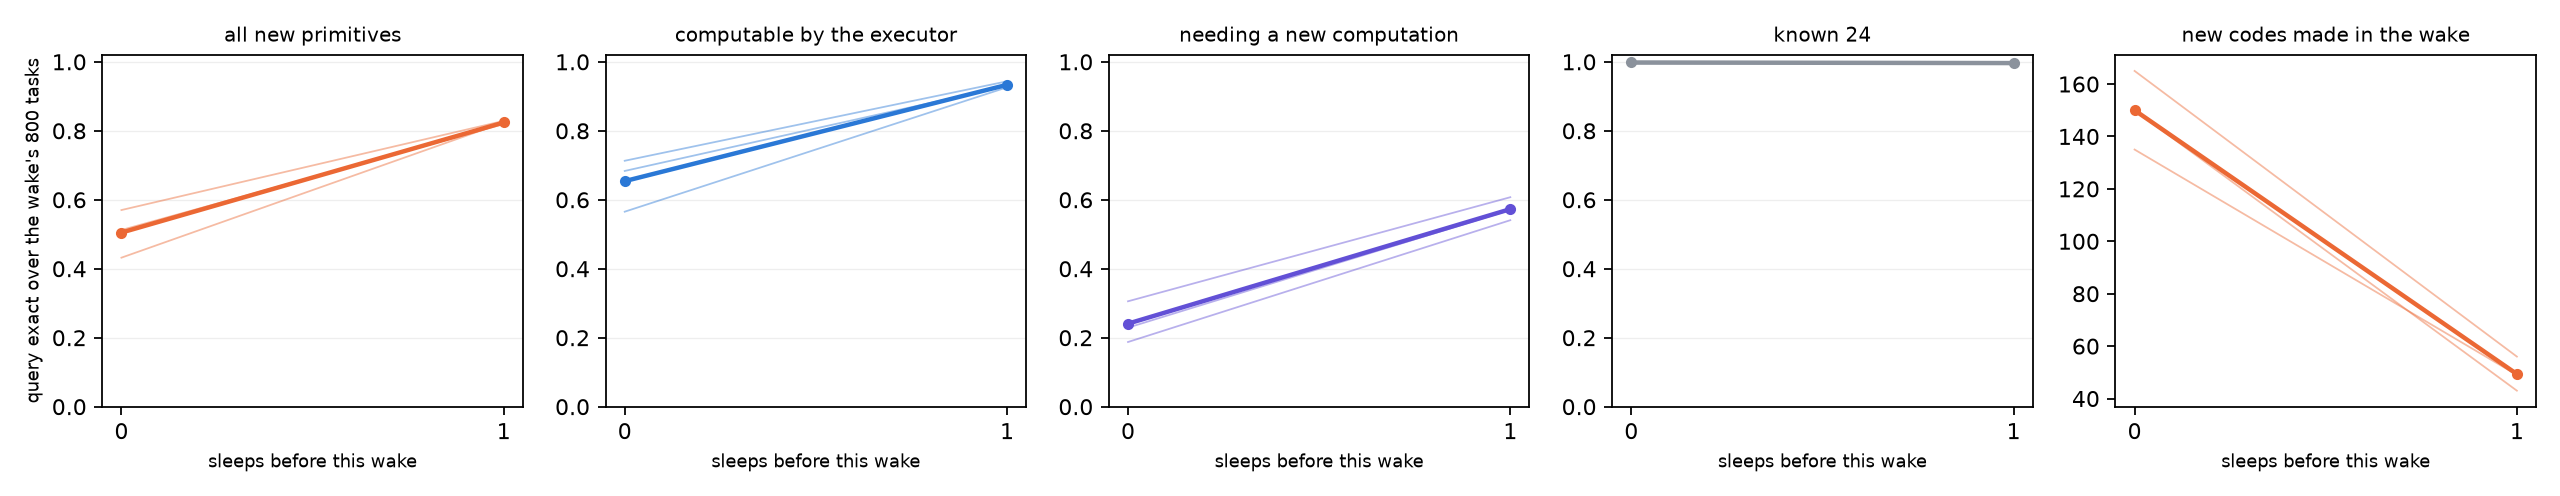
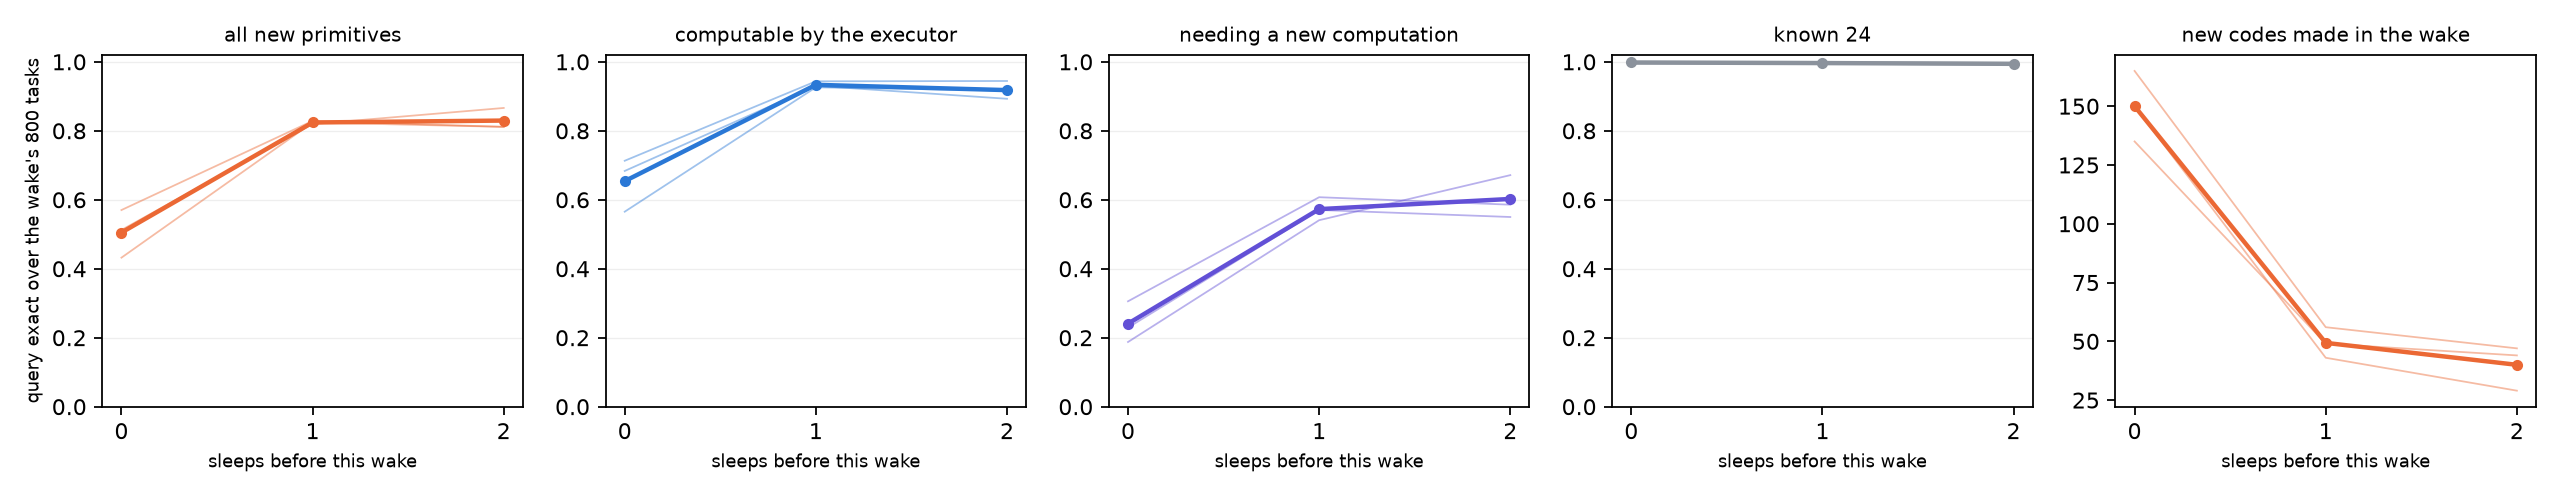
Three-seed rounds: the first sleep's gain holds at every seed, later gains do not; dream replay tool and configs

diff --git a/scripts/babytheorist/memory_dream_replay.py b/scripts/babytheorist/memory_dream_replay.py
@@ -1,0 +1,76 @@
+#!/usr/bin/env python3
+"""A replay file for the sleep made by the model itself, in place of the old world's train file.
+
+The frozen model dreams: for each row a code of its own codebook is drawn uniformly, two grids are drawn from the grids it
+saw while awake (the inputs and outputs of the stream's tasks, saved by memory_online.py --save-memory), and the executor
+runs the code on both. The two (grid, result) pairs are one two-pair task of the replay file. Training on it asks the
+sleeping model to keep doing with each code what it did before the sleep, on the states of the new world; no stored data
+of the old world and no label is used. Every code is dreamt, used or not.
+
+    python scripts/babytheorist/memory_dream_replay.py --run runs/onestep_s_m24_hardem_pairs2_price_s43 \
+        --memory runs/queue/memory_online_refit.pt --out data/babytheorist/dream_replay_s43/lv1_train.h5 --rows 40000
+"""
+
+from __future__ import annotations
+
+import argparse
+import json
+import sys
+from pathlib import Path
+
+import h5py
+import numpy as np
+import torch
+
+REPO = Path(__file__).resolve().parents[2]
+sys.path.insert(0, str(REPO / "src"))
+sys.path.insert(0, str(REPO / "scripts" / "babytheorist"))
+
+from support_search import code_table  # noqa: E402
+from training.evaluate import load_run  # noqa: E402
+
+
+@torch.no_grad()
+def main() -> None:
+    parser = argparse.ArgumentParser(description=__doc__, formatter_class=argparse.RawDescriptionHelpFormatter)
+    parser.add_argument("--run", type=Path, required=True)
+    parser.add_argument("--memory", type=Path, required=True)
+    parser.add_argument("--rows", type=int, default=40000)
+    parser.add_argument("--seed", type=int, default=0)
+    parser.add_argument("--out", type=Path, required=True)
+    args = parser.parse_args()
+    device = torch.device("cuda" if torch.cuda.is_available() else "cpu")
+    model, _, _, _ = load_run(args.run, None, device)
+    model.eval()
+    table = code_table(model)
+    saved = torch.load(args.memory, map_location="cpu", weights_only=False)
+    with h5py.File(saved["eval"], "r") as f:
+        rows = sorted(saved["rows"])
+        seen = np.concatenate([f["inputs"][:][rows], f["outputs"][:][rows]]).reshape(-1, *f["inputs"].shape[2:])
+        grid_size = f["grid_sizes"][0]
+    rng = np.random.default_rng(args.seed)
+    codes = rng.integers(0, table.shape[0], size=args.rows)
+    picks = rng.integers(0, len(seen), size=(args.rows, 2))
+    inputs = seen[picks]                                           # rows, 2, H, W
+    outputs = np.zeros_like(inputs)
+    for start in range(0, args.rows, 1024):
+        x = torch.tensor(inputs[start: start + 1024], dtype=torch.long, device=device)
+        c = table[torch.tensor(codes[start: start + 1024], device=device)]
+        state = model.encoder(x.flatten(0, 1))
+        out = model.decoder(model.executor(state, c.repeat_interleave(2, dim=0)[:, None])).argmax(dim=-1)
+        outputs[start: start + 1024] = out.view(-1, 2, *out.shape[1:]).cpu().numpy().astype(outputs.dtype)
+    changed = float((outputs != inputs).reshape(args.rows, -1).any(axis=1).mean())
+    args.out.parent.mkdir(parents=True, exist_ok=True)
+    with h5py.File(args.out, "w") as out:
+        out["inputs"], out["outputs"] = inputs.astype(np.int8), outputs.astype(np.int8)
+        out["depths"] = np.ones(args.rows, dtype=np.int32)
+        out["grid_sizes"] = np.tile(np.asarray(grid_size, dtype=np.int32), (args.rows, 1))
+        out["n_shapes"] = np.ones((args.rows, 2), dtype=np.int32)
+        out["n_support"] = np.ones(args.rows, dtype=np.int32)
+        suites = [json.dumps([{"selector": {"type": "by_index", "param": 1}, "primitive": f"dream_code_{int(c)}", "target": None}]) for c in codes]
+        out.create_dataset("transformation_suites", data=suites, dtype=h5py.string_dtype())
+    print(f"{args.rows} dreamt tasks from {len(seen)} seen grids and {table.shape[0]} codes; {changed:.2f} of them change a grid: {args.out}")
+
+
+if __name__ == "__main__":
+    main()

diff --git a/scripts/babytheorist/make_configs.py b/scripts/babytheorist/make_configs.py
@@ -937,6 +937,21 @@ def main() -> None:
             config["evals"].append({"type": "codebook_snapshot", "name": "snapshot", "every": 200, "split": "lv1", "max_tasks": 1024, "max_samples": 4000})
             config["evals"].append({"type": "codebook_snapshot", "name": "snapshot_usual", "every": 500, "split": "usual", "max_tasks": 1024, "max_samples": 4000})
             configs[f"{tag}_memory_m24_to_m52_s{seed}"] = config
+    # what the sleep replays (2026-11-27 21:00): sleep_memory_m24_to_m52_s43 keeps the old world by replaying its train file,
+    # which assumes the old data is kept. Two more sleeps from the same start on the same memory: no replay at all (how much
+    # is forgotten), and a replay the model dreams itself (scripts/babytheorist/memory_dream_replay.py: each of its codes
+    # run on grids it saw while awake), with no old data.
+    for tag, replay in (("norep", []), ("dream", [f"{DATA}/dream_replay_s43/lv1_train.h5"])):
+        config = one_step(43, steps=2000, codes=104, changes={**hard_em, "train.init_from": "runs/grow_init/m24_price_s43_to_m52_sleep_memory.pt"},
+                          data=suite("many_p52_without4"))
+        config["data"]["type"] = "babytheorist_episodes"
+        config["data"]["train"] = [f"{DATA}/memory_refit_s43_rep/lv1_train.h5"] + replay
+        config["data"]["evals"] = {"lv1": f"{DATA}/many_p52_without4_unstreamed/lv1_eval.h5", "usual": f"{DATA}/many_p24/lv1_eval.h5"}
+        config["evals"][0]["tables"] = True
+        config["evals"][0]["every"] = 500
+        config["evals"].append({"type": "codebook_snapshot", "name": "snapshot", "every": 200, "split": "lv1", "max_tasks": 1024, "max_samples": 4000})
+        config["evals"].append({"type": "codebook_snapshot", "name": "snapshot_usual", "every": 500, "split": "usual", "max_tasks": 1024, "max_samples": 4000})
+        configs[f"sleep_{tag}_m24_to_m52_s43"] = config
     # the control for what the fast memory chose (2026-11-27 17:15): the same sleep from fresh rows on 435 tasks drawn at
     # random from the 52-primitive two-pair train file (seed 0, repeated to 40,000 rows), instead of the 435 tasks the
     # memory kept because no code of the frozen model reproduced them.

diff --git a/docs/reports/2026-11-27-autoresearch.md b/docs/reports/2026-11-27-autoresearch.md
@@ -10,7 +10,7 @@
 
 결과를 먼저 말하면, 첫 질문은 절반쯤 풀렸다. 학습 초반에 과하게 쓰인 code에 가격을 붙여 과제를 여러 code로 퍼뜨리고 나중에 가격을 거두면, 굳던 seed 43과 44가 갈라졌고 52개 환경에서는 세 seed가 모두 풀렸다. 하지만 24개 환경의 seed 45와 46에서는 오히려 덜 갈라졌다. 가격을 재현 적합도로 거두는 형태가 이 두 seed를 올렸지만 아직 다 풀지는 못했다.
 
-둘째 질문에서 더 많은 것이 나왔다. 세 가지다. 학습 때 보는 state를 넓히면 executor가 학습 분포 밖에서도 같은 변환을 실행하게 되고, 긴 program과 큰 물체 세계로의 전이가 함께 오른다. 24개 환경 모델을 52개 환경으로 키우면 초반은 빠르지만 끝 성능과 처음 보는 primitive로의 일반화는 처음부터 배운 쪽이 낫다. 그리고 이날의 중심 결과로, 얼린 모델에 빠른 기억을 붙이고 잠을 번갈아 넣으면 새 과제가 바퀴마다 더 싸게 풀린다. 깨어 있는 동안에는 가중치를 바꾸지 않고 새 code를 기억에 만들어 쓰고, 자기 code로 풀리지 않은 과제를 모은다. 잠에서 그 과제로 가중치를 고친다. 새 primitive 과제의 정답률이 자기 전 51%, 한 번 잔 뒤 79%, 두 번 잔 뒤 86%이고, 깨어 있는 동안 새로 만들어야 하는 code는 150개, 43개, 25개로 준다. 원래 알던 것은 내내 99% 이상이다.
+둘째 질문에서 더 많은 것이 나왔다. 세 가지다. 학습 때 보는 state를 넓히면 executor가 학습 분포 밖에서도 같은 변환을 실행하게 되고, 긴 program과 큰 물체 세계로의 전이가 함께 오른다. 24개 환경 모델을 52개 환경으로 키우면 초반은 빠르지만 끝 성능과 처음 보는 primitive로의 일반화는 처음부터 배운 쪽이 낫다. 그리고 이날의 중심 결과로, 얼린 모델에 빠른 기억을 붙이고 잠을 번갈아 넣으면 새 과제가 바퀴마다 더 싸게 풀린다. 깨어 있는 동안에는 가중치를 바꾸지 않고 새 code를 기억에 만들어 쓰고, 자기 code로 풀리지 않은 과제를 모은다. 잠에서 그 과제로 가중치를 고친다. 세 seed 평균으로 새 primitive 과제의 정답률이 자기 전 50%, 한 번 잔 뒤 82%이고, 깨어 있는 동안 새로 만들어야 하는 code는 150개에서 49개로 준다. 원래 알던 것은 내내 99% 이상이다. 같은 과제를 자지 않고 빠른 기억만으로 받으면 62%에서 멈춘다. 두 번째 잠부터의 이득은 seed마다 달라 평균으로는 1점 안쪽이다.
 
 ## 2. code는 왜 굳는가
 
@@ -269,7 +269,7 @@ executor가 함수에 가까워지자 긴 program의 상한도 올랐다. 24개 
 | 세 번째, 두 번 잔 뒤 | 86% | 90% | 76% | 99.7% | 25개 | 75% |
 | 네 번째, 세 번 잔 뒤 | 89% | 91% | 85% | 100% | 23개 | 79% |
 
-바퀴가 돌 때마다 새 과제가 더 잘 풀리고, 빠른 기억이 새로 할당해야 하는 code가 줄어든다. 오르는 폭은 바퀴마다 줄어 28점, 7점, 3점이다. 처음에 크게 오르고 완만해지는 모양이다. 가장 크게 오르는 것은 새 계산이 필요한 개념이다. 깨어 있는 동안에는 풀지 못하고 기억에 쌓이기만 하던 과제가 잠에서 executor를 바꾸고, 다음에 깨면 자기 code로 풀린다. 둘째 깨어 있는 동안 기억에 더해진 과제 134개는 대부분 아직 덜 배운 개념의 과제였고, 둘째 잠 뒤에 왼쪽 거울상 붙이기는 29%에서 87%, 두 배 확대는 43%에서 82%가 됐다. 기억이 무엇을 담을지를 검증 실패로 정하니, 잠은 모델이 아직 못 하는 것에 학습을 모은다. 아는 24개는 네 번 모두 99% 이상으로, 재생이 원래 지식을 지켰다.
+이 seed에서는 바퀴가 돌 때마다 새 과제가 더 잘 풀리고, 빠른 기억이 새로 할당해야 하는 code가 줄어든다. 오르는 폭은 바퀴마다 줄어 28점, 7점, 3점이다. 처음에 크게 오르고 완만해지는 모양이다. 아래에서 보듯 첫 잠의 큰 상승은 seed 셋에서 같지만, 그 뒤의 작은 상승은 seed마다 다르다. 가장 크게 오르는 것은 새 계산이 필요한 개념이다. 깨어 있는 동안에는 풀지 못하고 기억에 쌓이기만 하던 과제가 잠에서 executor를 바꾸고, 다음에 깨면 자기 code로 풀린다. 둘째 깨어 있는 동안 기억에 더해진 과제 134개는 대부분 아직 덜 배운 개념의 과제였고, 둘째 잠 뒤에 왼쪽 거울상 붙이기는 29%에서 87%, 두 배 확대는 43%에서 82%가 됐다. 기억이 무엇을 담을지를 검증 실패로 정하니, 잠은 모델이 아직 못 하는 것에 학습을 모은다. 아는 24개는 네 번 모두 99% 이상으로, 재생이 원래 지식을 지켰다.
 
 잠을 잔 뒤에도 빠른 기억은 값을 더한다. 한 번 잔 모델이 탐색 없이 고른 code로는 계산할 수 있는 새것을 81% 맞히는데, 깨어서 support로 검증하고 빠른 기억으로 보충하면 86%다.
 
@@ -287,16 +287,20 @@ executor가 함수에 가까워지자 긴 program의 상한도 올랐다. 24개 
 
 자지 않아도 기억이 쌓이며 51%에서 62%로 오르기는 한다. 하지만 거기서 멈춘다. 새 계산이 필요한 개념이 막혀 있기 때문이다. 새 code는 331개까지 계속 늘어난다. 같은 과제에서 잠의 몫은 17점과 23점이다.
 
-한 바퀴를 seed 셋으로 확인했다. 24개 환경 가격 모델 seed 42, 43, 44가 같은 흐름을 받고, 기억 code를 codebook 줄로 넣어 한 번 잔 뒤 다음 800개를 받는다.
+seed 셋으로 확인했다. 24개 환경 가격 모델 seed 42, 43, 44가 같은 흐름을 받고, 기억 code를 codebook 줄로 넣어 자고, 다음 800개를 받는다. 둘째 잠은 두 번의 기억을 합쳐 1,000스텝 이어 잔다.
 
-| seed | 자기 전, 새 primitive | 한 번 잔 뒤 | 새 code, 전과 후 |
-|---|---|---|---|
-| 42 | 57% | 83% | 135개, 49개 |
-| 43 | 51% | 82% | 150개, 43개 |
-| 44 | 43% | 82% | 165개, 56개 |
-| 평균 | 50.5% | 82.4% | 150개, 49개 |
+![seed 셋의 바퀴, 가는 선은 seed이고 굵은 선은 평균](2026-11-27-memory/rounds.png)
 
-세 seed 평균으로 계산할 수 있는 새것이 65%에서 93%, 새 계산이 필요한 새것이 24%에서 57%, 아는 24개가 99.8%에서 99.7%다. 자기 전 값은 seed마다 14점 벌어지는데 잔 뒤에는 1점 안에 모인다.
+| seed | 자기 전, 새 primitive | 한 번 잔 뒤 | 두 번 잔 뒤 | 새 code |
+|---|---|---|---|---|
+| 42 | 57% | 83% | 81% | 135개, 49개, 44개 |
+| 43 | 51% | 82% | 87% | 150개, 43개, 29개 |
+| 44 | 43% | 82% | 81% | 165개, 56개, 47개 |
+| 평균 | 50.5% | 82.4% | 83.0% | 150개, 49개, 40개 |
+
+첫 잠의 상승은 세 seed에서 같다. 자기 전 값은 seed마다 14점 벌어지는데 한 번 잔 뒤에는 1점 안에 모인다. 세 seed 평균으로 계산할 수 있는 새것이 65%에서 93%, 새 계산이 필요한 새것이 24%에서 57%, 아는 24개가 99.8%에서 99.6%다.
+
+둘째 잠의 이득은 seed마다 다르다. seed 43은 5점 올랐고 seed 42와 44는 1에서 2점 내렸다. 평균으로는 1점이 안 된다. seed 42와 44에서 막힌 것은 두 배 확대 0%, 오른쪽 거울상 붙이기 0에서 30%, 가로 늘이기 20에서 35%다. seed 43에서는 같은 primitive들이 둘째 잠 뒤에 33에서 70%로 올랐다. 그러니 위의 seed 43 곡선처럼 바퀴마다 계속 오른다고 일반화할 수는 없다. 굳힐 수 있는 것은 이것이다. 한 번의 잠이 새 과제의 정답률을 30점 넘게 올리고, 깨어 있는 동안 새로 만들어야 하는 code를 3분의 1로 줄인다. 그 뒤의 잠은 일부 seed에서만 남은 어려운 개념을 더 배운다.
 
 ### 8.6 큰 물체 세계에서의 같은 바퀴
 

diff --git a/docs/HANDOFF.md b/docs/HANDOFF.md
@@ -4,13 +4,13 @@
 
 Claude Code가 썼다. 이날의 이야기와 그림은 `docs/reports/2026-11-27-autoresearch.md`에, 비교마다의 숫자는 `docs/ablations.md`에, 시각별 기록은 `docs/research-log.md`에 있다. 사용자가 11월 27일에 정한 방향은 무작위 초기화에서 code를 세우는 문제에 매달리지 말고, 아는 것 위에 새것이 싸게 붙는지를 보이는 것이다.
 
-- 중심 결과. 얼린 모델이 과제를 하나씩 받으며 빠른 기억에 새 code를 만들어 쓰고, 자기 code로 풀리지 않은 과제를 모았다가 잠에서 가중치로 옮긴다. 24개 환경 가격 seed 43 모델이 52개 환경의 한 단계 과제를 800개씩 받을 때, 새 primitive 정답률이 자기 전 51%, 한 번 잔 뒤 79%, 두 번 잔 뒤 86%이고 새로 만드는 code는 150개, 43개, 25개다. 아는 24개는 내내 99% 이상이다. 도구는 `scripts/babytheorist/memory_online.py`, `memory_sleep_data.py`, `grow_checkpoint.py --rows-from`, 설정은 `configs/babytheorist/sleep*_m24_to_m52_s*.yaml`, 그림 도구는 `memory_online_figure.py`, `sleep_curves.py`, `memory_cycle_figure.py`다.
+- 중심 결과. 얼린 모델이 과제를 하나씩 받으며 빠른 기억에 새 code를 만들어 쓰고, 자기 code로 풀리지 않은 과제를 모았다가 잠에서 가중치로 옮긴다. 24개 환경 가격 모델 seed 42, 43, 44가 52개 환경의 한 단계 과제를 800개씩 받을 때, 새 primitive 정답률이 세 seed 평균으로 자기 전 50.5%, 한 번 잔 뒤 82.4%, 두 번 잔 뒤 83.0%이고 새로 만드는 code는 150개, 49개, 40개다. 아는 24개는 내내 99% 이상이다. 자지 않고 빠른 기억만으로 같은 과제를 받으면 62%에서 멈춘다. 첫 잠의 상승은 세 seed에서 같고, 둘째 잠부터의 이득은 seed 43에서만 뚜렷하다. 큰 물체 세계에서도 같은 바퀴로 48%, 70%, 74%가 나왔다. 도구는 `scripts/babytheorist/memory_online.py`, `memory_sleep_data.py`, `grow_checkpoint.py --rows-from`, 설정은 `configs/babytheorist/sleep*_m24_to_m52_s*.yaml`, 그림 도구는 `memory_online_figure.py`, `sleep_curves.py`, `memory_cycle_figure.py`다.
 - 빠른 기억의 범위. code 벡터 하나로 붙는 것은 executor가 이미 할 줄 아는 계산의 조합, 곧 이동 거리만 다른 이동 같은 것이다. 앞서 3에서 8번 본 뒤 77에서 82%다. 거울상 붙이기, 확대처럼 새 계산이 필요한 개념은 11에서 22%이고 잠에서만 배운다. 할당 전에 기존 새 code를 다시 맞춰 이어 쓰는 단계가 있어야 code가 늘기만 하지 않는다. `docs/decisions.md`에 적었다.
 - 빠른 기억의 code는 길이가 1이 아니다. codebook은 길이 1로 정규화하므로 그대로 옮기면 기능을 잃는다. 길이를 묶어 맞추면 처음 보는 과제에서 10점 넘게 낮다. codebook이 길이를 쓰게 할지는 열린 물음이다.
 - 학습 state 넓히기. 생성기의 `--start-steps 4`로 학습 pair의 물체가 먼저 무작위 primitive를 0에서 4개 거치게 하면, 정답 code의 정확도가 다섯 단계 거친 물체에서 80%에서 97%, 큰 물체에서 62%에서 90%로 오른다. 긴 program의 상한과 꿈 학습 뒤의 탐색도 따라 오른다. 24개 환경 길이 5, 6, 7이 64%, 55%, 50%다.
 - code 형성. 가격 방식은 52개 환경 세 seed를 모두 풀었고, 24개 환경은 다섯 seed 가운데 셋이다. 재현 적합도로 가격을 거두는 `model.price_fit`이 어려운 두 seed를 올렸지만 다 풀지는 못했다.
 - 환경 키우기. 이어 배우면 초반이 두 배쯤 빠르지만 끝 성능과 학습에 없던 primitive로의 일반화는 처음부터 배운 쪽이 낫다.
-- 남은 일. 세 바퀴를 seed 42와 44로 확인하는 run과 자지 않는 대조 run이 이 글을 쓰는 시점에 돌고 있다. 결과는 연구 로그의 마지막 항목을 본다. 그다음은 같은 바퀴를 여러 단계 program 과제로 넓히는 것, 재생을 데이터 대신 꿈으로 바꾸는 것이다.
+- 남은 일. 같은 바퀴를 여러 단계 program 과제로 넓히는 것이 다음이다. 여러 단계 과제가 검증에 실패했을 때 어느 단계가 모르는 primitive인지를 정하는 규칙이 먼저 필요하다. 두 배 확대처럼 잠을 거듭해도 일부 seed에서 0%에 머무는 개념이 왜 막히는지도 봐야 한다. 재생을 원래 데이터 대신 모델의 꿈으로 바꾸는 비교는 `sleep_dream_m24_to_m52_s43`과 `sleep_norep_m24_to_m52_s43`에 있고 결과는 연구 로그의 마지막 항목을 본다.
 - 원격 저장소로의 push는 이 세션의 권한 분류기가 막아 하지 못했다. 커밋은 로컬 `code/baseline-observation`에 있다.
 
 ## 2026-11-24 18:50, 최선을 갱신하는 자율 연구 중의 상태

diff --git a/docs/research-log.md b/docs/research-log.md
@@ -370,3 +370,6 @@
 - 20:42 자지 않고 과제 2,400개를 받은 기억 전체, 1,305개로 한 번만 2,000스텝 잔 run. 흐름을 뺀 평가에서 원래 24개 99%, 계산할 수 있는 새것 94%, 새 계산이 필요한 새것 77%, 4칸 이동 58%다. 800개마다 자며 모은 기억 684개로 세 번 잔 모델은 99%, 86%, 75%, 73%다. 사이사이 자면 기억에 담기는 과제가 절반인데 새 계산이 필요한 개념은 같은 수준에 닿고, 계산할 수 있는 개념은 과제가 많은 쪽이 8점 높다. 깨어 있는 동안의 정답률은 사이사이 잔 쪽이 79%, 86%로 자지 않은 쪽의 62%, 63%보다 훨씬 높다.
 - 20:42 꿈 학습 전 탐색, 넓힌 학습 seed 44. 길이 5, 6, 7이 51%, 33%, 24%이고 꿈 뒤는 64%, 50%, 38%다.
 - 20:42 끝나지 않은 run의 지금 값. 52개 환경 넓힌 학습 seed 42는 12,000스텝에 넷 98%, 나머지 99%다. 넓힌 학습 모델에서 키운 run은 13,400스텝에 새 primitive 89%로 24개 가운데 20개가 80%에 닿았고 4칸 이동 34%, 같은 데이터로 처음부터 배우는 run은 12,800스텝에 99%, 24개, 95%다. 적합도 가격으로 키운 seed 42는 14,800스텝에 새 primitive 92%, 22개, 4칸 이동 28%다. 기본 가격으로 키운 같은 seed의 최종은 76%, 16개였다.
+- 20:45 잠이 무엇을 재생하느냐의 비교를 띄웠다. 기억 줄 출발, 같은 기억 과제 435개로, 재생이 전혀 없는 잠과 모델이 스스로 꿈꾼 과제를 재생하는 잠이다. 꿈은 얼린 모델의 code 48개를 고르게 뽑아, 깨어 있는 동안 본 격자 4,800개 가운데 둘에 실행한 결과로 만든 두 pair 과제 4만 개다. 원래 환경의 데이터를 쓰지 않는다. 꿈 과제의 98%가 격자를 바꾼다. 도구는 scripts/babytheorist/memory_dream_replay.py다. 비교 대상은 24개 환경 학습 파일을 재생한 잠으로 원래 24개 98%, 계산할 수 있는 새것 89%, 새 계산이 필요한 새것 64%였다.
+- 20:55 재생 비교의 400스텝 값. 원래 24개, 계산할 수 있는 새것, 새 계산이 필요한 새것 순으로, 24개 환경 학습 파일 재생 95%, 89%, 58%, 꿈 재생 97%, 84%, 55%, 재생 없음 16%, 88%, 57%다. 재생이 없으면 원래 지식이 200스텝 만에 19%로 무너진다. 꿈을 재생하면 원래 환경의 데이터 없이 원래 지식이 지켜진다.
+- 21:02 세 seed의 셋째 구간, 기억 줄 출발 갈래. 새 primitive 정답률이 seed 42, 43, 44에서 자기 전 57, 51, 43%, 한 번 잔 뒤 83, 82, 82%, 두 번 잔 뒤 81, 87, 81%다. 평균 50.5%, 82.4%, 83.0%다. 계산할 수 있는 새것 평균 65%, 93%, 92%, 새 계산이 필요한 새것 24%, 57%, 60%, 새 code 150개, 49개, 40개, 아는 24개 99.8%, 99.6%, 99.4%다. 첫 잠의 상승은 세 seed에서 같지만 둘째 잠의 이득은 seed 43에서만 5점이고 seed 42와 44는 1에서 2점 내렸다. 앞서 seed 43의 무작위 줄 갈래에서 79%, 86%, 89%로 계속 오른 것을 바퀴가 돌수록 오른다고 적었는데, seed 셋으로는 첫 잠 뒤의 추가 이득이 평균 1점 안쪽이다. seed 42와 44에서 막힌 것은 두 배 확대 0%, 오른쪽 거울상 붙이기 0에서 30%, 가로 늘이기 20에서 35%다. seed 43에서는 같은 것들이 둘째 잠 뒤에 33에서 70%로 올랐다.
